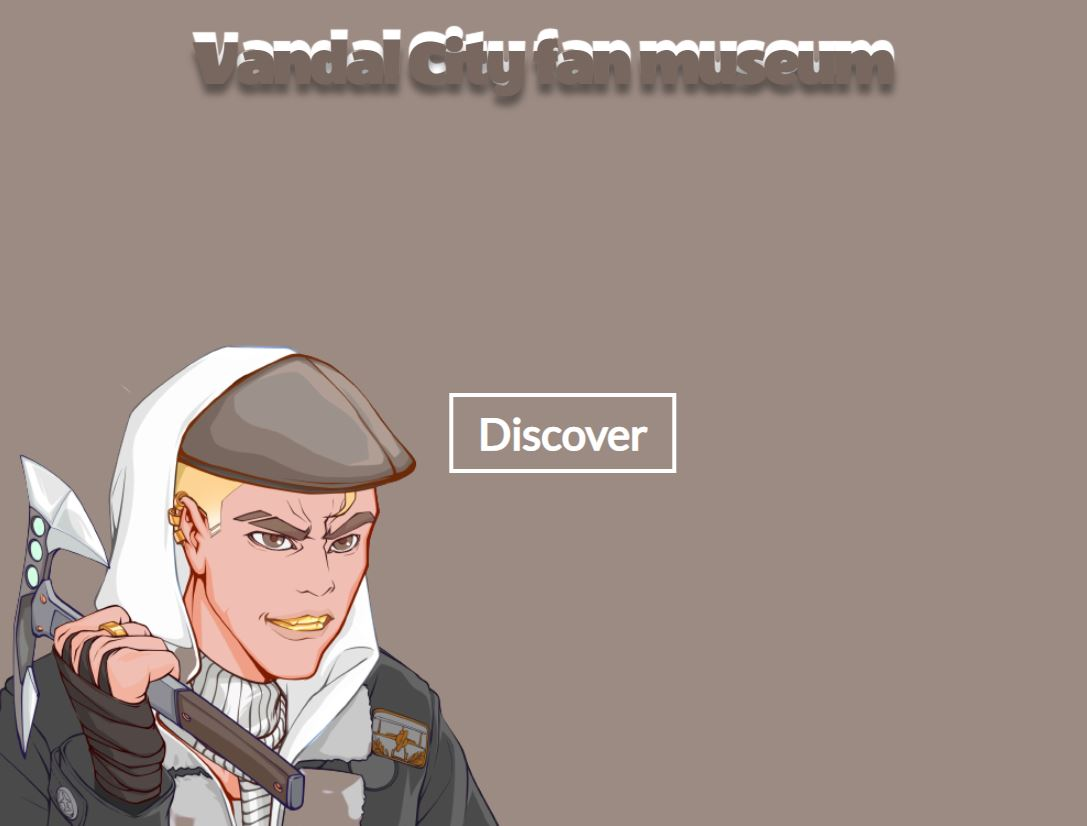
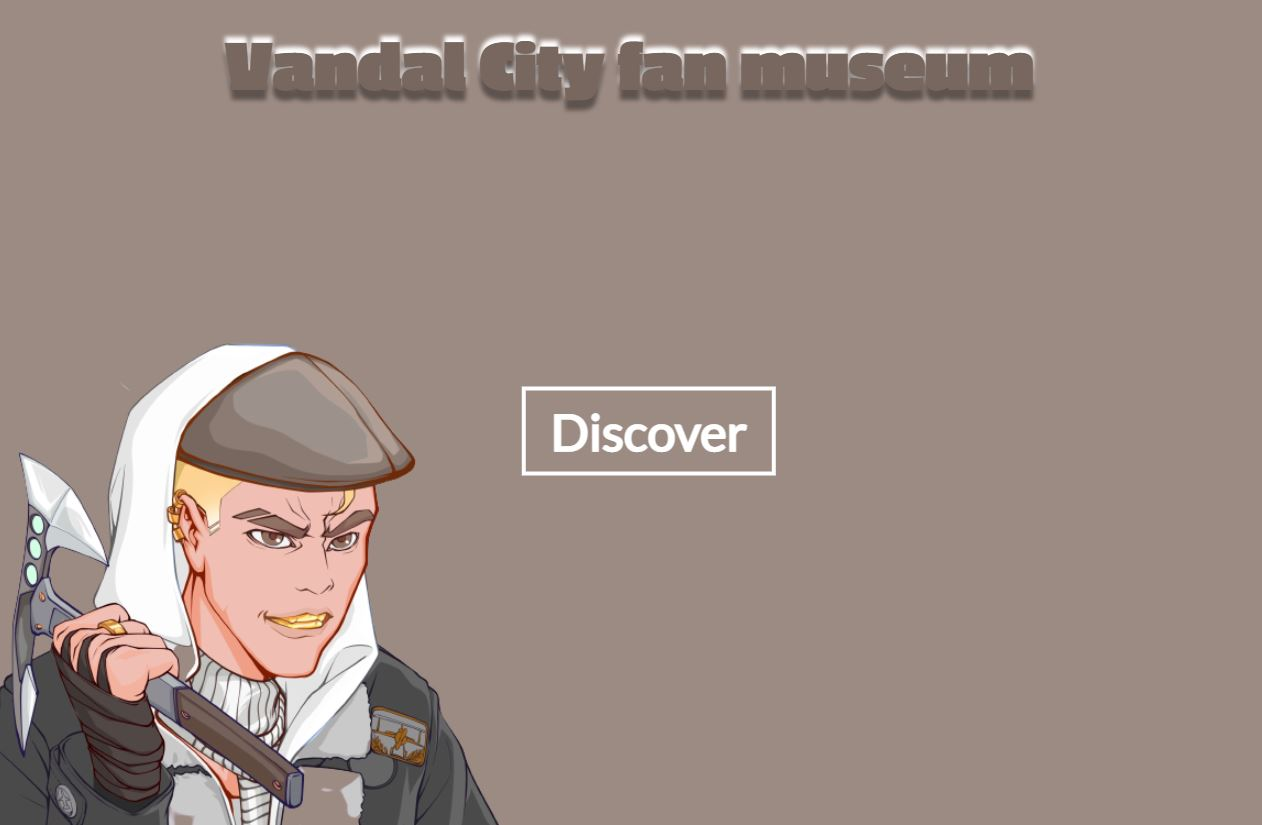
change font

Changed region(s): [[0.0, 0.3939, 0.6375, 1.0], [0.1822, 0.0303, 0.85, 0.1515]]

diff --git a/style.css b/style.css
@@ -19,7 +19,7 @@ h3 {
   font-size:6vw;
   white-space: nowrap;
   color: #78675f;
-  text-shadow: 0 10px 7px rgba(0,0,0,0.4),0 -10px 1px #fff;
+  text-shadow: 0 10px 4px rgb(0 0 0 / 40%), 0 -6px 4px #fff;
   letter-spacing: -3px;
 }
 
